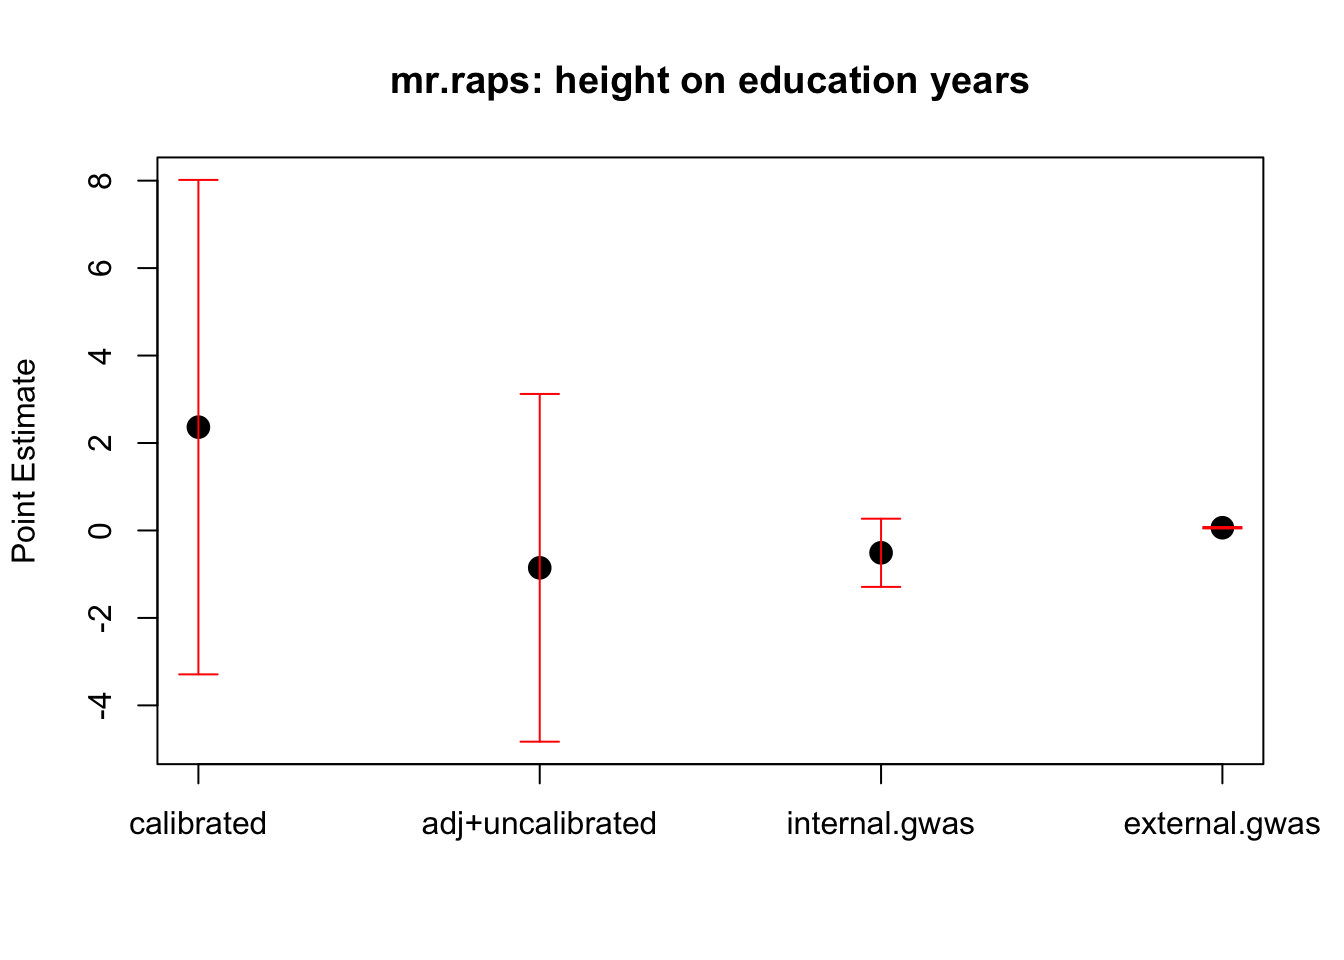
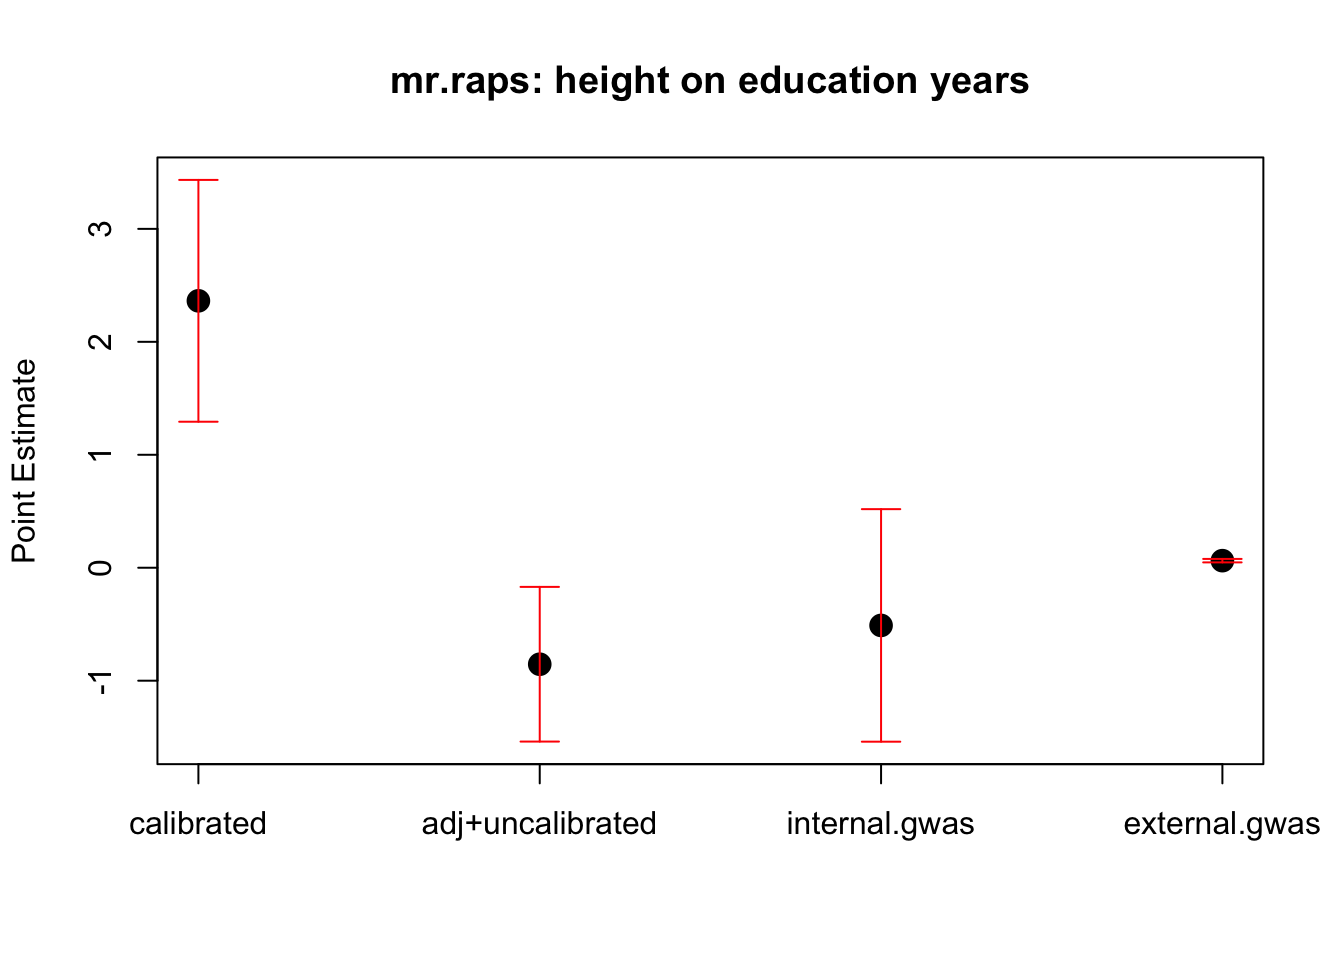
Build site.

diff --git a/docs/ukb_mr_height_202407.html b/docs/ukb_mr_height_202407.html
@@ -475,16 +475,16 @@ This reproducible <a href="http://rmarkdown.rstudio.com">R Markdown</a> analysis
 <div class="panel panel-default">
 <div class="panel-heading">
 <p class="panel-title">
-<a data-toggle="collapse" data-parent="#workflowr-checks" href="#strongRepositoryversionstrongahrefhttpsgithubcomyunqiyang0215simulationcalibratedmrtree9a23c2f3fdf9f15e23f4d6e704fce2d8578e0f74targetblank9a23c2fa"> <span class="glyphicon glyphicon-ok text-success" aria-hidden="true"></span> <strong>Repository version:</strong> <a href="https://github.com/yunqiyang0215/simulation-calibrated-mr/tree/9a23c2f3fdf9f15e23f4d6e704fce2d8578e0f74" target="_blank">9a23c2f</a> </a>
+<a data-toggle="collapse" data-parent="#workflowr-checks" href="#strongRepositoryversionstrongahrefhttpsgithubcomyunqiyang0215simulationcalibratedmrtree08fc47d2a2930da24472e2579f70a1a3d7e0aeaftargetblank08fc47da"> <span class="glyphicon glyphicon-ok text-success" aria-hidden="true"></span> <strong>Repository version:</strong> <a href="https://github.com/yunqiyang0215/simulation-calibrated-mr/tree/08fc47d2a2930da24472e2579f70a1a3d7e0aeaf" target="_blank">08fc47d</a> </a>
 </p>
 </div>
[2 lines of base64/hex data omitted]
 <div class="panel-body">
 <p>
 Great! You are using Git for version control. Tracking code development and connecting the code version to the results is critical for reproducibility.
 </p>
 <p>
-The results in this page were generated with repository version <a href="https://github.com/yunqiyang0215/simulation-calibrated-mr/tree/9a23c2f3fdf9f15e23f4d6e704fce2d8578e0f74" target="_blank">9a23c2f</a>. See the <em>Past versions</em> tab to see a history of the changes made to the R Markdown and HTML files.
+The results in this page were generated with repository version <a href="https://github.com/yunqiyang0215/simulation-calibrated-mr/tree/08fc47d2a2930da24472e2579f70a1a3d7e0aeaf" target="_blank">08fc47d</a>. See the <em>Past versions</em> tab to see a history of the changes made to the R Markdown and HTML files.
 </p>
 <p>
 Note that you need to be careful to ensure that all relevant files for the analysis have been committed to Git prior to generating the results (you can use <code>wflow_publish</code> or <code>wflow_git_commit</code>). workflowr only checks the R Markdown file, but you know if there are other scripts or data files that it depends on. Below is the status of the Git repository when the results were generated:
@@ -532,6 +532,40 @@ Message
 </tr>
 </thead>
 <tbody>
+<tr>
+<td>
+Rmd
+</td>
+<td>
+<a href="https://github.com/yunqiyang0215/simulation-calibrated-mr/blob/08fc47d2a2930da24472e2579f70a1a3d7e0aeaf/analysis/ukb_mr_height_202407.Rmd" target="_blank">08fc47d</a>
+</td>
+<td>
+yunqiyang0215
+</td>
+<td>
+2024-08-06
+</td>
+<td>
+wflow_publish("analysis/ukb_mr_height_202407.Rmd")
+</td>
+</tr>
+<tr>
+<td>
+html
+</td>
+<td>
+<a href="https://rawcdn.githack.com/yunqiyang0215/simulation-calibrated-mr/25f6ae12ec650ed8521dfd596f7d3f3586814b64/docs/ukb_mr_height_202407.html" target="_blank">25f6ae1</a>
+</td>
+<td>
+yunqiyang0215
+</td>
+<td>
+2024-08-06
+</td>
+<td>
+Build site.
+</td>
+</tr>
 <tr>
 <td>
 Rmd
@@ -663,6 +697,43 @@ plot(1:4, point_est, ylim=c(min(point_est - error_bars), max(point_est + error_b
 arrows(1:4, point_est - error_bars, 1:4, point_est + error_bars, angle=90, code=3, length=0.1, col=&#39;red&#39;)
 axis(1, at=1:4, labels=labels)</code></pre>
 <p><img src="figure/ukb_mr_height_202407.Rmd/unnamed-chunk-9-1.png" width="672" style="display: block; margin: auto;" /></p>
+<p>
+<button type="button" class="btn btn-default btn-xs btn-workflowr btn-workflowr-fig" data-toggle="collapse" data-target="#fig-unnamed-chunk-9-1">
+Past versions of unnamed-chunk-9-1.png
+</button>
+</p>
+<div id="fig-unnamed-chunk-9-1" class="collapse">
+<div class="table-responsive">
+<table class="table table-condensed table-hover">
+<thead>
+<tr>
+<th>
+Version
+</th>
+<th>
+Author
+</th>
+<th>
+Date
+</th>
+</tr>
+</thead>
+<tbody>
+<tr>
+<td>
+<a href="https://github.com/yunqiyang0215/simulation-calibrated-mr/blob/25f6ae12ec650ed8521dfd596f7d3f3586814b64/docs/figure/ukb_mr_height_202407.Rmd/unnamed-chunk-9-1.png" target="_blank">25f6ae1</a>
+</td>
+<td>
+yunqiyang0215
+</td>
+<td>
+2024-08-06
+</td>
+</tr>
+</tbody>
+</table>
+</div>
+</div>
 </div>
 <div id="mr.raps" class="section level4">
 <h4>2. mr.raps</h4>
@@ -671,37 +742,34 @@ colnames(res.mr) = c(&quot;calibrated&quot;, &quot;adj+uncalibrated&quot;, &quot
 rownames(res.mr) = c(&quot;point.est&quot;, &quot;std&quot;)
 
 # calibrated
-mr = mr.raps.shrinkage(dat1$cali, dat2$cali, sqrt(dat1$cali.var), sqrt(dat2$cali.var))</code></pre>
-<pre><code>Warning in mr.raps.shrinkage(dat1$cali, dat2$cali, sqrt(dat1$cali.var), :
-The estimating equations might have another finite root. The closest root is
-beta = 2.36299730351689 and the other root is beta = -4.3518975260533 and the
-initialization is beta = 2.36299730351689</code></pre>
-<pre class="r"><code>point_est = mr$beta.hat
+mr = mr.raps.mle(dat1$cali, dat2$cali, sqrt(dat1$cali.var), sqrt(dat2$cali.var))
+
+point_est = mr$beta.hat
 stderr = mr$beta.se
 res.mr[, 1] = c(point_est, stderr)
 
 # adj+uncalibrated
-mr = mr.raps.shrinkage(dat1$raw, dat2$raw, sqrt(dat1$raw.var), sqrt(dat2$raw.var))
+mr = mr.raps.mle(dat1$raw, dat2$raw, sqrt(dat1$raw.var), sqrt(dat2$raw.var))
 
 point_est = mr$beta.hat
 stderr = mr$beta.se
 res.mr[, 2] = c(point_est, stderr)
 
 # internal gwas
-mr = mr.raps.shrinkage(dat1$int, dat2$int, sqrt(dat1$int.var), sqrt(dat2$int.var))
+mr = mr.raps.mle(dat1$int, dat2$int, sqrt(dat1$int.var), sqrt(dat2$int.var))
 point_est = mr$beta.hat
 stderr = mr$beta.se
 res.mr[, 3] = c(point_est, stderr)
 
 # external gwas
-mr = mr.raps.shrinkage(dat1$BETA, dat2$BETA, dat1$SE, dat2$SE)
+mr = mr.raps.mle(dat1$BETA, dat2$BETA, dat1$SE, dat2$SE)
 point_est = mr$beta.hat
 stderr = mr$beta.se
 res.mr[, 4] = c(point_est, stderr)
 res.mr</code></pre>
 <pre><code>          calibrated adj+uncalibrated internal.gwas external.gwas
-point.est   2.362997       -0.8542163    -0.5106406   0.062693017
-std         2.884592        2.0286276     0.3978524   0.008119601</code></pre>
+point.est  2.3629973       -0.8542164    -0.5106406   0.062693017
+std        0.5461075        0.3493194     0.5251644   0.007832986</code></pre>
 <pre class="r"><code>labels &lt;- c(&#39;calibrated&#39;, &#39;adj+uncalibrated&#39;, &#39;internal.gwas&#39;, &#39;external.gwas&#39;)
 point_est &lt;- res.mr[1, ]
 error_bars &lt;- 1.96 * res.mr[2, ]
@@ -712,6 +780,43 @@ plot(1:4, point_est, ylim=c(min(point_est - error_bars), max(point_est + error_b
 arrows(1:4, point_est - error_bars, 1:4, point_est + error_bars, angle=90, code=3, length=0.1, col=&#39;red&#39;)
 axis(1, at=1:4, labels=labels)</code></pre>
 <p><img src="figure/ukb_mr_height_202407.Rmd/unnamed-chunk-11-1.png" width="672" style="display: block; margin: auto;" /></p>
+<p>
+<button type="button" class="btn btn-default btn-xs btn-workflowr btn-workflowr-fig" data-toggle="collapse" data-target="#fig-unnamed-chunk-11-1">
+Past versions of unnamed-chunk-11-1.png
+</button>
+</p>
+<div id="fig-unnamed-chunk-11-1" class="collapse">
+<div class="table-responsive">
+<table class="table table-condensed table-hover">
+<thead>
+<tr>
+<th>
+Version
+</th>
+<th>
+Author
+</th>
+<th>
+Date
+</th>
+</tr>
+</thead>
+<tbody>
+<tr>
+<td>
+<a href="https://github.com/yunqiyang0215/simulation-calibrated-mr/blob/25f6ae12ec650ed8521dfd596f7d3f3586814b64/docs/figure/ukb_mr_height_202407.Rmd/unnamed-chunk-11-1.png" target="_blank">25f6ae1</a>
+</td>
+<td>
+yunqiyang0215
+</td>
+<td>
+2024-08-06
+</td>
+</tr>
+</tbody>
+</table>
+</div>
+</div>
 <br>
 <p>
 <button type="button" class="btn btn-default btn-workflowr btn-workflowr-sessioninfo" data-toggle="collapse" data-target="#workflowr-sessioninfo" style="display: block;">
